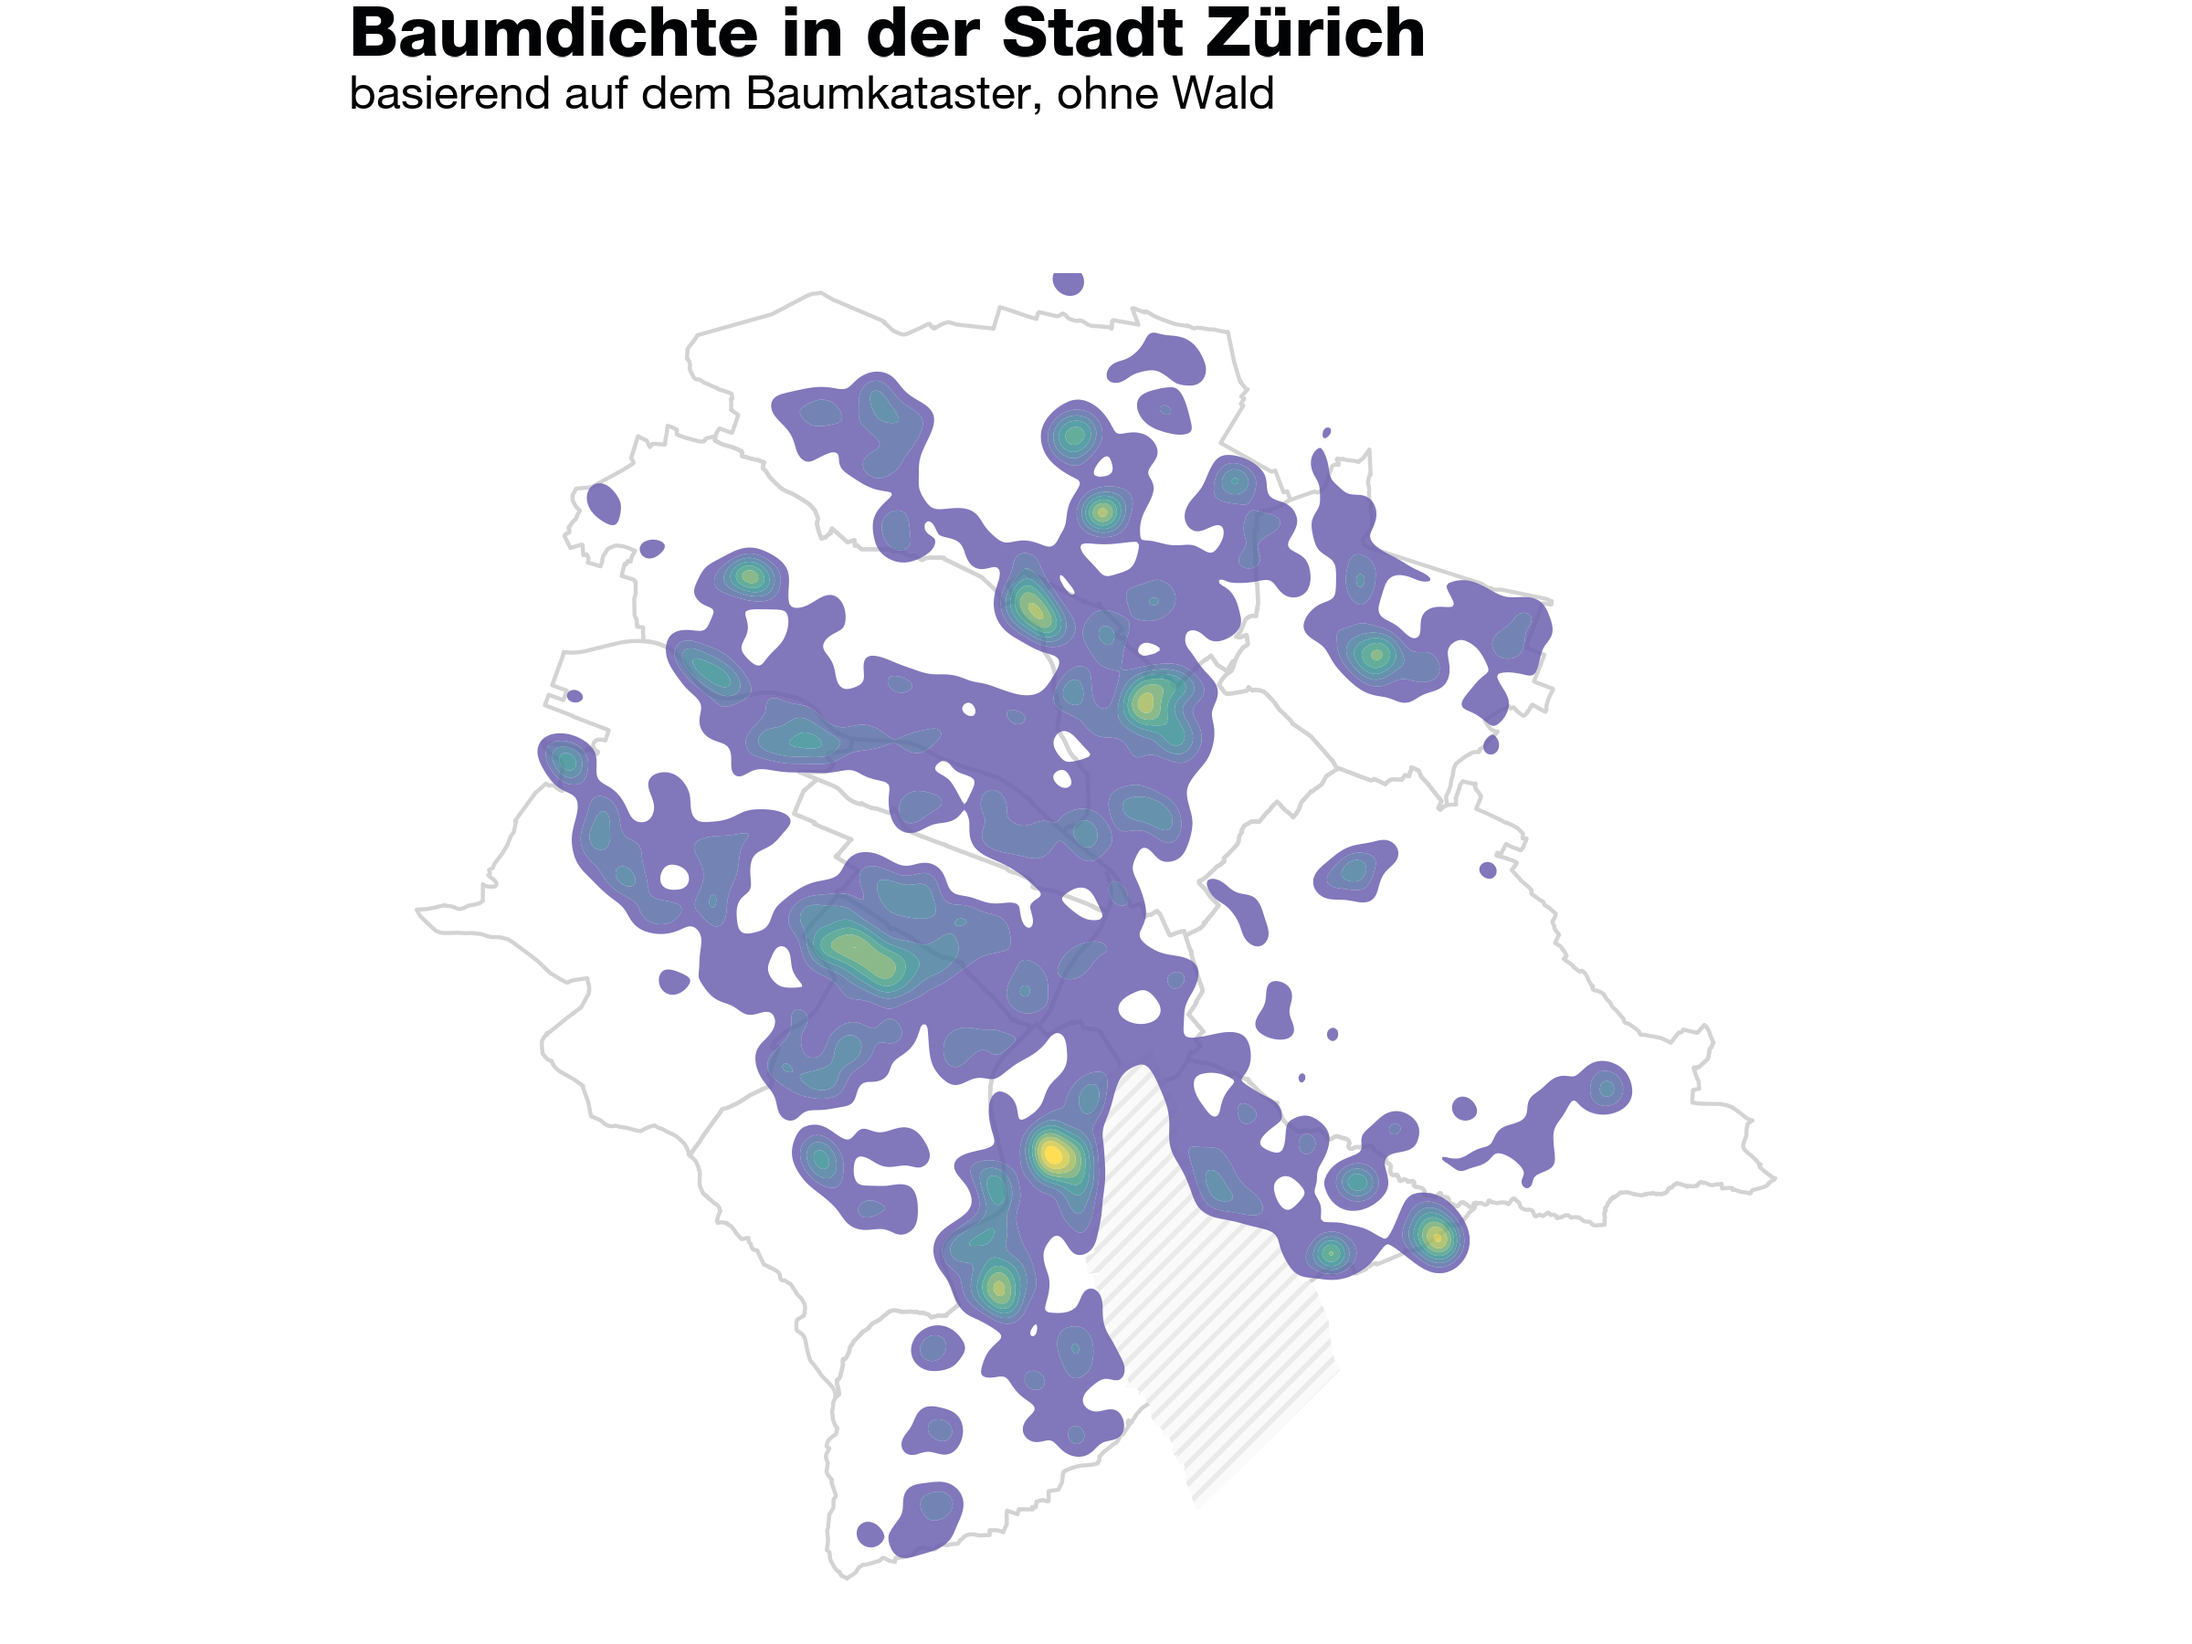
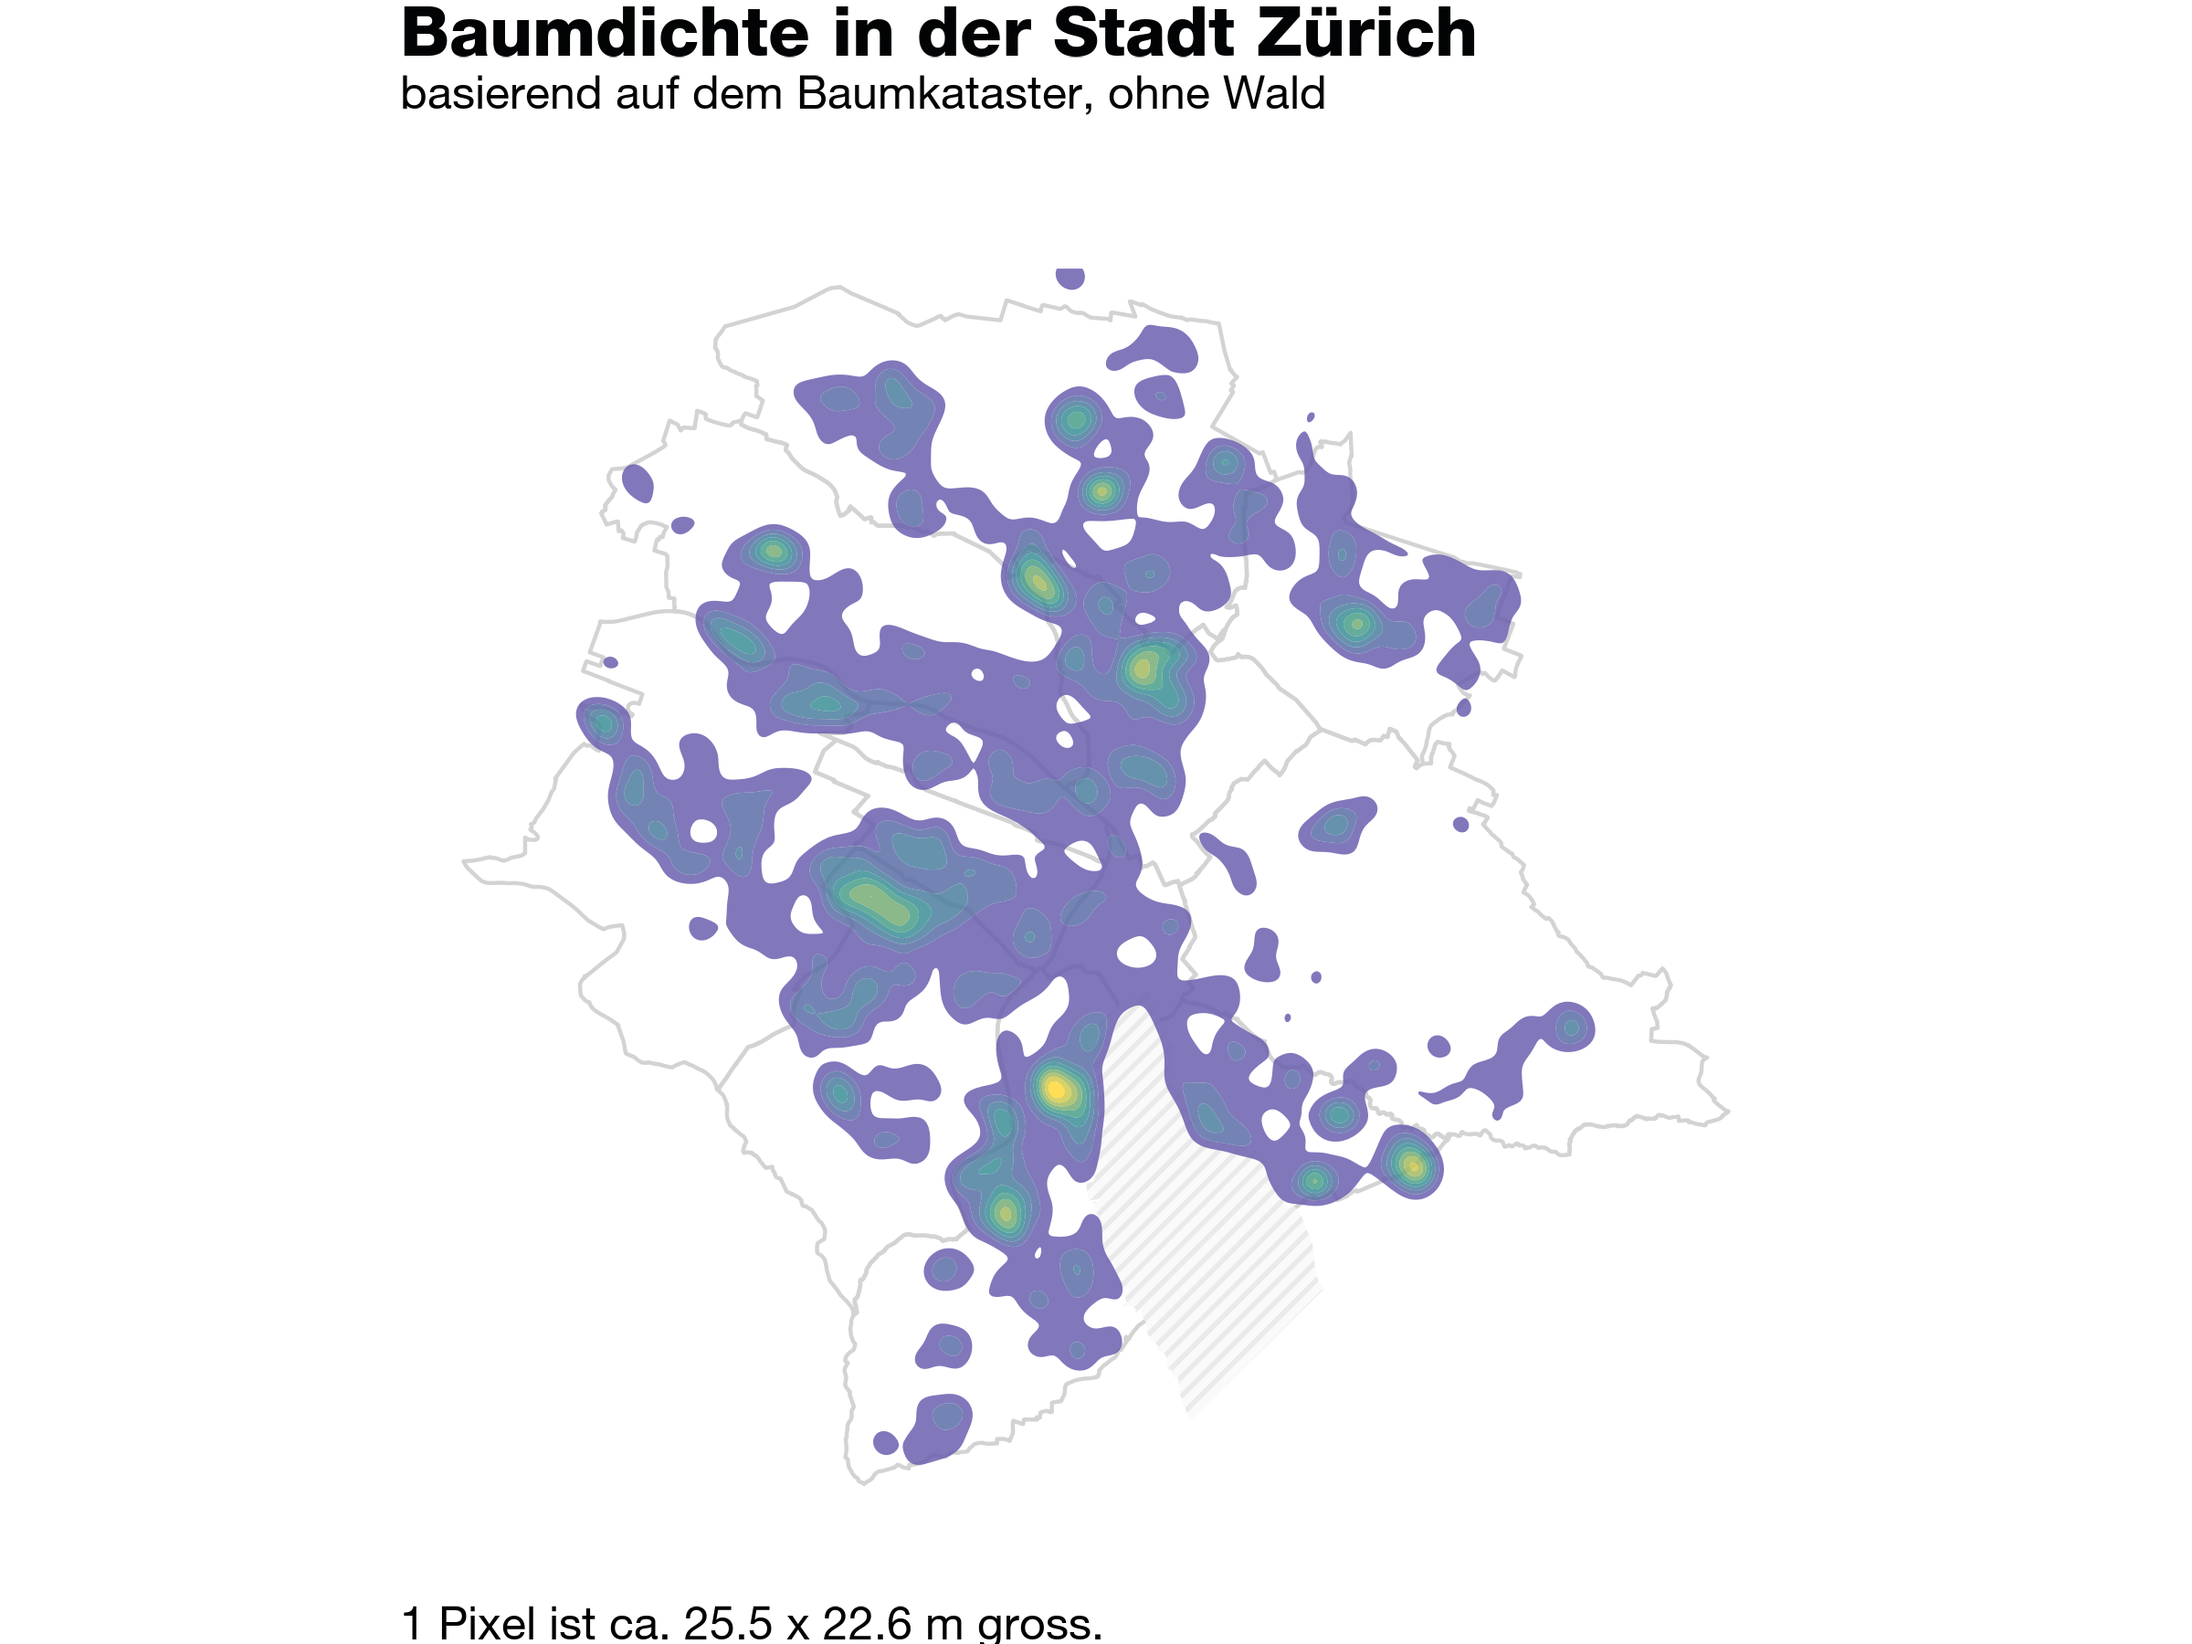
add pixel size to heatmap

Changed region(s): [[0.1875, 0.1556, 0.7812, 1.0], [0.1562, 0.0, 0.6875, 0.0622], [0.375, 0.1556, 0.4062, 0.1867]]

diff --git a/README.md b/README.md
@@ -176,7 +176,7 @@ You can find the R code for this graphic [here](inst/examples/map_chart.R).
 
 You can find the R code for this graphic [here](inst/examples/map_hexbin.R)
 
-Please note that this is a qualitative approximation to show where individual points are concentrated. The area of each hexagon depends on the `num_bins` parameter. It is important that the data has one row per point, which is why we use `tidyr::uncount()`, even though this isn't necessary with the example data. 
+Please note that this is a qualitative approximation to show where individual points are concentrated. The area of each hexagon depends on the `bins` parameter. It is important that the data has one row per point, which is why we use `tidyr::uncount()`, even though this isn't necessary with the example data. As a very (!) approximate area reference, with `bins = 30` as in the example, one hexagon covers approximately 12ha.
 
 <img src='man/figures/map_hexbin.png' alt="example density map using hexagons" height="400"/>
 
@@ -184,7 +184,7 @@ Please note that this is a qualitative approximation to show where individual po
 
 You can find the R code for this graphic [here](inst/examples/map_heatmap.R)
 
-Please note that this is a qualitative approximation to show where individual points are concentrated. The grid over which the density is calculated depends on the parameters `n` and `h`; and the density can only be calculated if the appropriate coordinate system is chosen. It is important that the data has one row per point, which is why we use `tidyr::uncount()`, even though this isn't necessary with the example data. 
+Please note that this is a qualitative approximation to show where individual points are concentrated. The grid over which the density is calculated depends on the parameters `n` and `h`; and the density can only be calculated if the appropriate coordinate system is chosen. The example also covers how to calculate the pixel size in the heatmap, though this is approximate, a heatmap is never exact. It is important that the data has one row per point, which is why we use `tidyr::uncount()`, even though this isn't necessary with the example data. 
 
 <img src='man/figures/map_heatmap.png' alt="example density map using hexagons" height="400"/>
 
